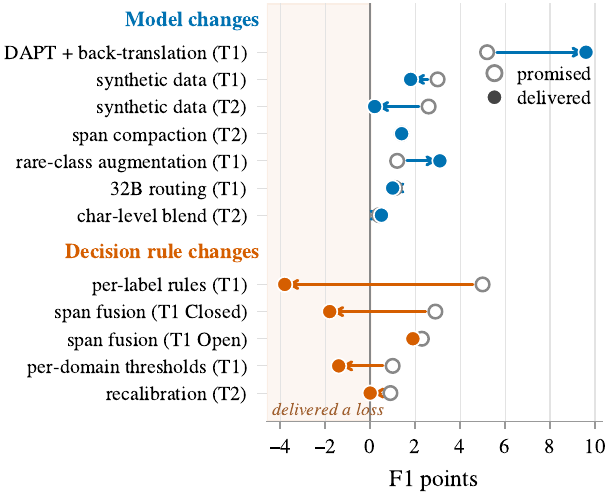
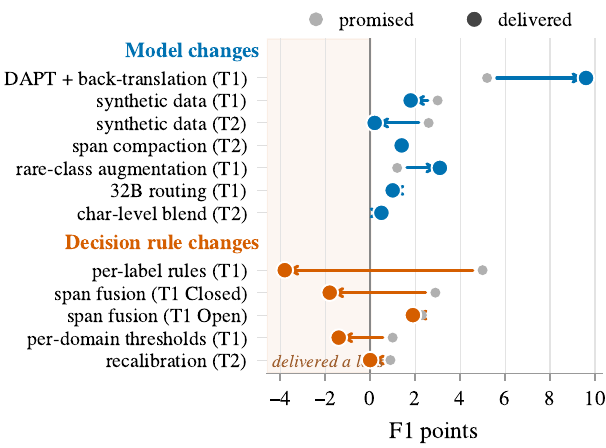
Transfer figure: move legend outside

diff --git a/paper_analysis/transfer_plot.py b/paper_analysis/transfer_plot.py
@@ -31,7 +31,7 @@ decision = [
     ("recalibration (T2)",           0.9,  0.0),
 ]
 
-fig, ax = plt.subplots(figsize=(3.03, 2.48))
+fig, ax = plt.subplots(figsize=(3.03, 2.24))
 
 rows = []       # (y, label, promised, delivered, color)
 y = 13.0
@@ -54,9 +54,8 @@ for yy, lab, p, d, c in rows:
     ax.annotate("", xy=(d, yy), xytext=(p, yy), zorder=2,
                 arrowprops=dict(arrowstyle="->,head_width=0.18,head_length=0.32",
                                 color=c, lw=1.1, shrinkA=3.5, shrinkB=1))
-    ax.scatter(p, yy, s=24, facecolor="white", edgecolor="#888888",
-               linewidths=0.9, zorder=3)
-    ax.scatter(d, yy, s=30, facecolor=c, edgecolor="white", linewidths=0.6, zorder=4)
+    ax.scatter(p, yy, s=13, facecolor="#b0b0b0", edgecolor="none", zorder=3)
+    ax.scatter(d, yy, s=36, facecolor=c, edgecolor="white", linewidths=0.7, zorder=4)
 
 ax.set_yticks([r[0] for r in rows])
 ax.set_yticklabels([r[1] for r in rows])
@@ -65,24 +64,25 @@ for yy, txt, c in rows_hdr:
             ha="right", va="center", fontsize=7.6, fontweight="bold", color=c)
 
 ax.set_xlim(-4.6, 10.3)
-ax.set_ylim(-1.6, 13.8)
+ax.set_ylim(-1.15, 13.75)
 ax.set_xticks([-4, -2, 0, 2, 4, 6, 8, 10])
 ax.set_xlabel("F1 points")
 ax.spines[["top", "right", "left"]].set_visible(False)
 ax.tick_params(axis="x", length=2.5, color="#999999")
 ax.spines["bottom"].set_color("#999999")
 
-ax.text(-4.35, -1.5, "delivered a loss", fontsize=6.4, color="#a06030",
+ax.text(-4.35, -1.05, "delivered a loss", fontsize=6.4, color="#a06030",
         style="italic", ha="left", va="bottom")
 
 handles = [
-    Line2D([], [], marker="o", ls="", markerfacecolor="white",
-           markeredgecolor="#888888", markersize=5.5, label="promised"),
+    Line2D([], [], marker="o", ls="", color="#b0b0b0", markersize=4,
+           label="promised"),
     Line2D([], [], marker="o", ls="", color="#444444", markeredgecolor="white",
-           markersize=6, label="delivered"),
+           markersize=6.5, label="delivered"),
 ]
-ax.legend(handles=handles, loc="center right", bbox_to_anchor=(1.0, 0.80),
-          frameon=False, borderaxespad=0.1, handletextpad=0.15, labelspacing=0.25)
+ax.legend(handles=handles, loc="lower center", bbox_to_anchor=(0.5, 1.0),
+          ncol=2, frameon=False, borderaxespad=0.0, handletextpad=0.2,
+          columnspacing=2.0, fontsize=7.2)
 
 fig.tight_layout(pad=0.15)
 os.makedirs("/home/amal/Desktop/daleel2026/paper/figs", exist_ok=True)
